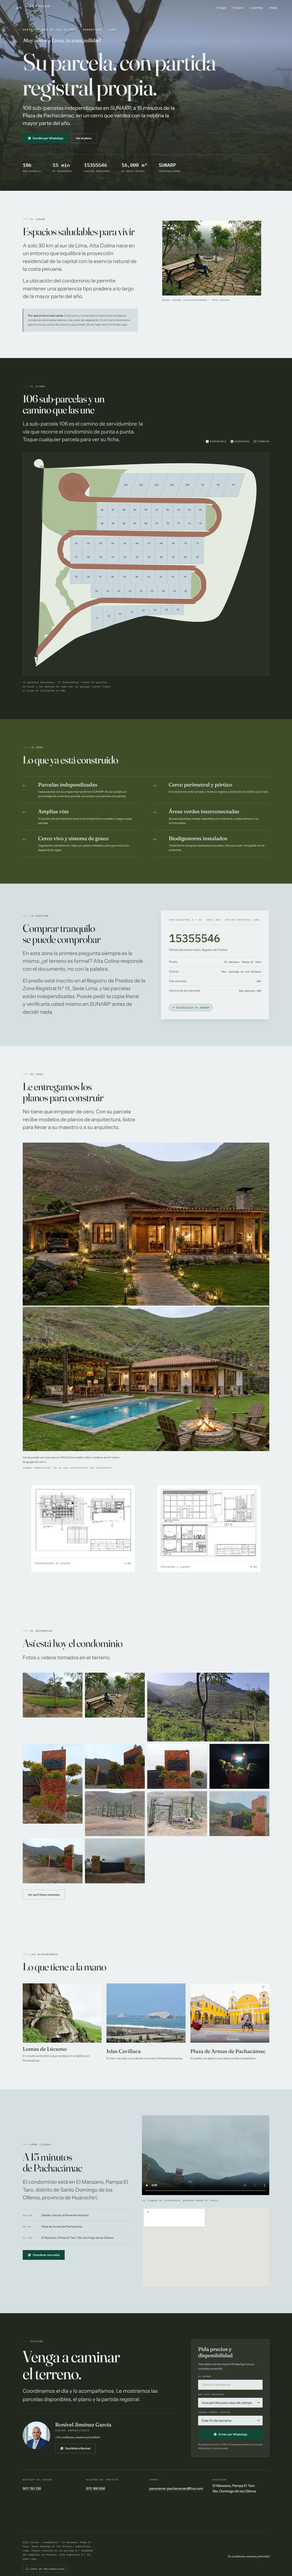
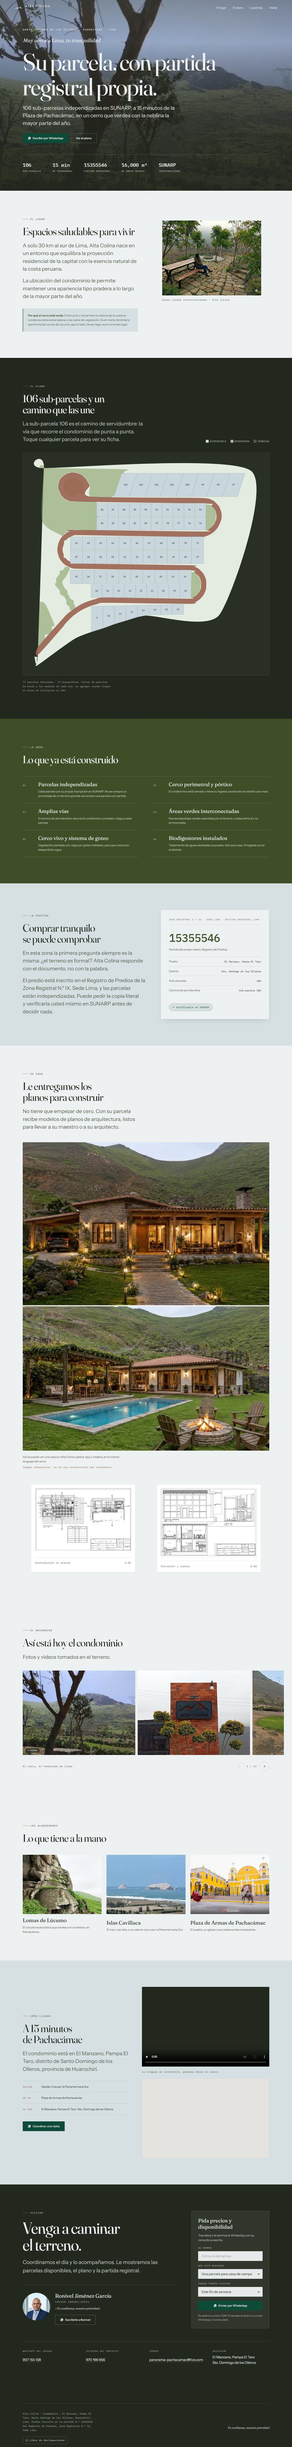
Arreglar el video de Como llegar: apuntaba al archivo viejo
Al renombrar llegada-al-condominio a entrada-al-condominio quedo la referencia
vieja en el HTML. El video de esa seccion no cargaba.

No lo detecte antes porque mi verificacion solo miraba imagenes rotas, no
videos. Ahora se comprueban los dos.

diff --git a/index.html b/index.html
@@ -436,10 +436,10 @@
 
     <div class="llegar__visual revela">
     <figure class="llegada">
-      <video src="material/web/video-llegada-al-condominio.mp4"
-             poster="material/web/video-llegada-al-condominio-poster.jpg"
+      <video src="material/web/video-entrada-al-condominio.mp4"
+             poster="material/web/video-entrada-al-condominio-poster.jpg"
              controls playsinline preload="none"></video>
-      <figcaption>La llegada al condominio, grabada desde el carro.</figcaption>
+      <figcaption>La entrada al condominio, grabada desde el carro.</figcaption>
     </figure>
 
     <div class="mapa">

diff --git a/assets/estilos.css b/assets/estilos.css
@@ -1278,3 +1278,7 @@ select.campo__caja { appearance: none; cursor: pointer; padding-right: 2.5rem;
 .carrusel__flecha svg { inline-size: 1.15rem; block-size: 1.15rem; }
 .carrusel__flecha:hover:not(:disabled) { background: var(--garua); border-color: var(--pizarra); }
 .carrusel__flecha:disabled { opacity: .3; cursor: default; }
+
+/* el video de la entrada es vertical: se le da su proporción y se centra */
+.llegada video { aspect-ratio: 3 / 4; max-block-size: 30rem; inline-size: auto; margin-inline: auto; }
+@media (max-width: 62rem) { .llegada video { inline-size: 100%; max-block-size: none; } }
